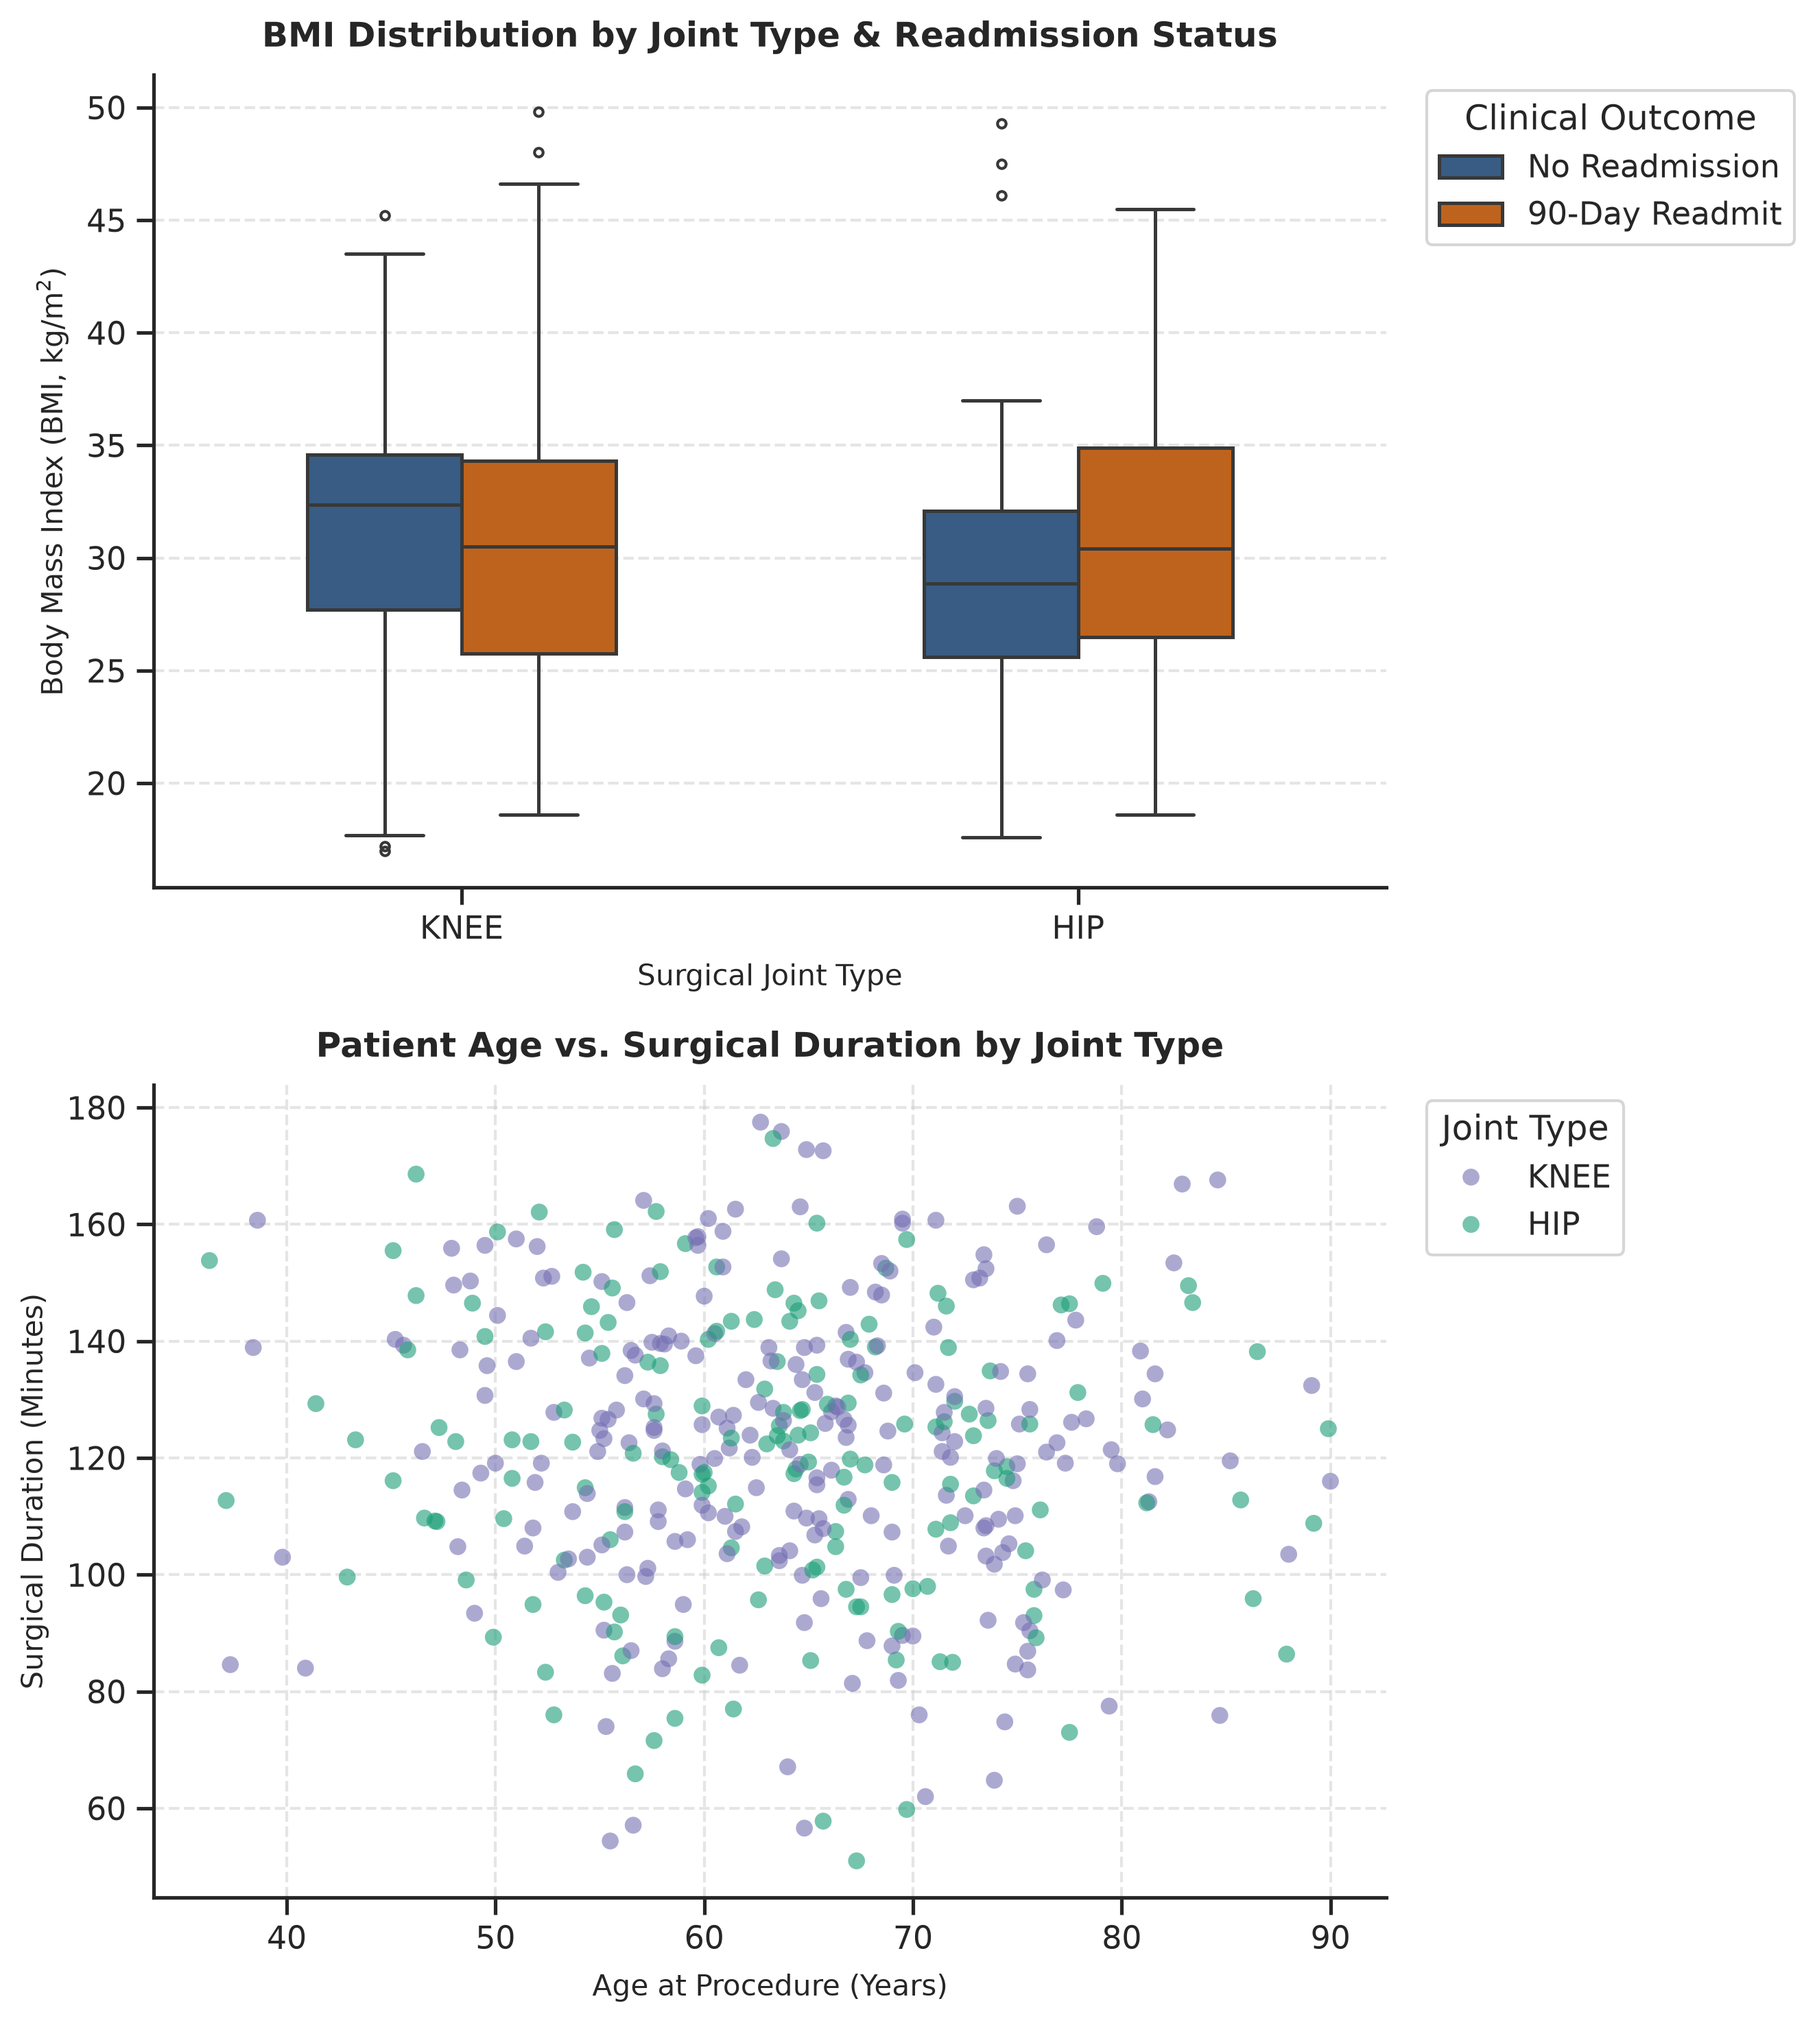
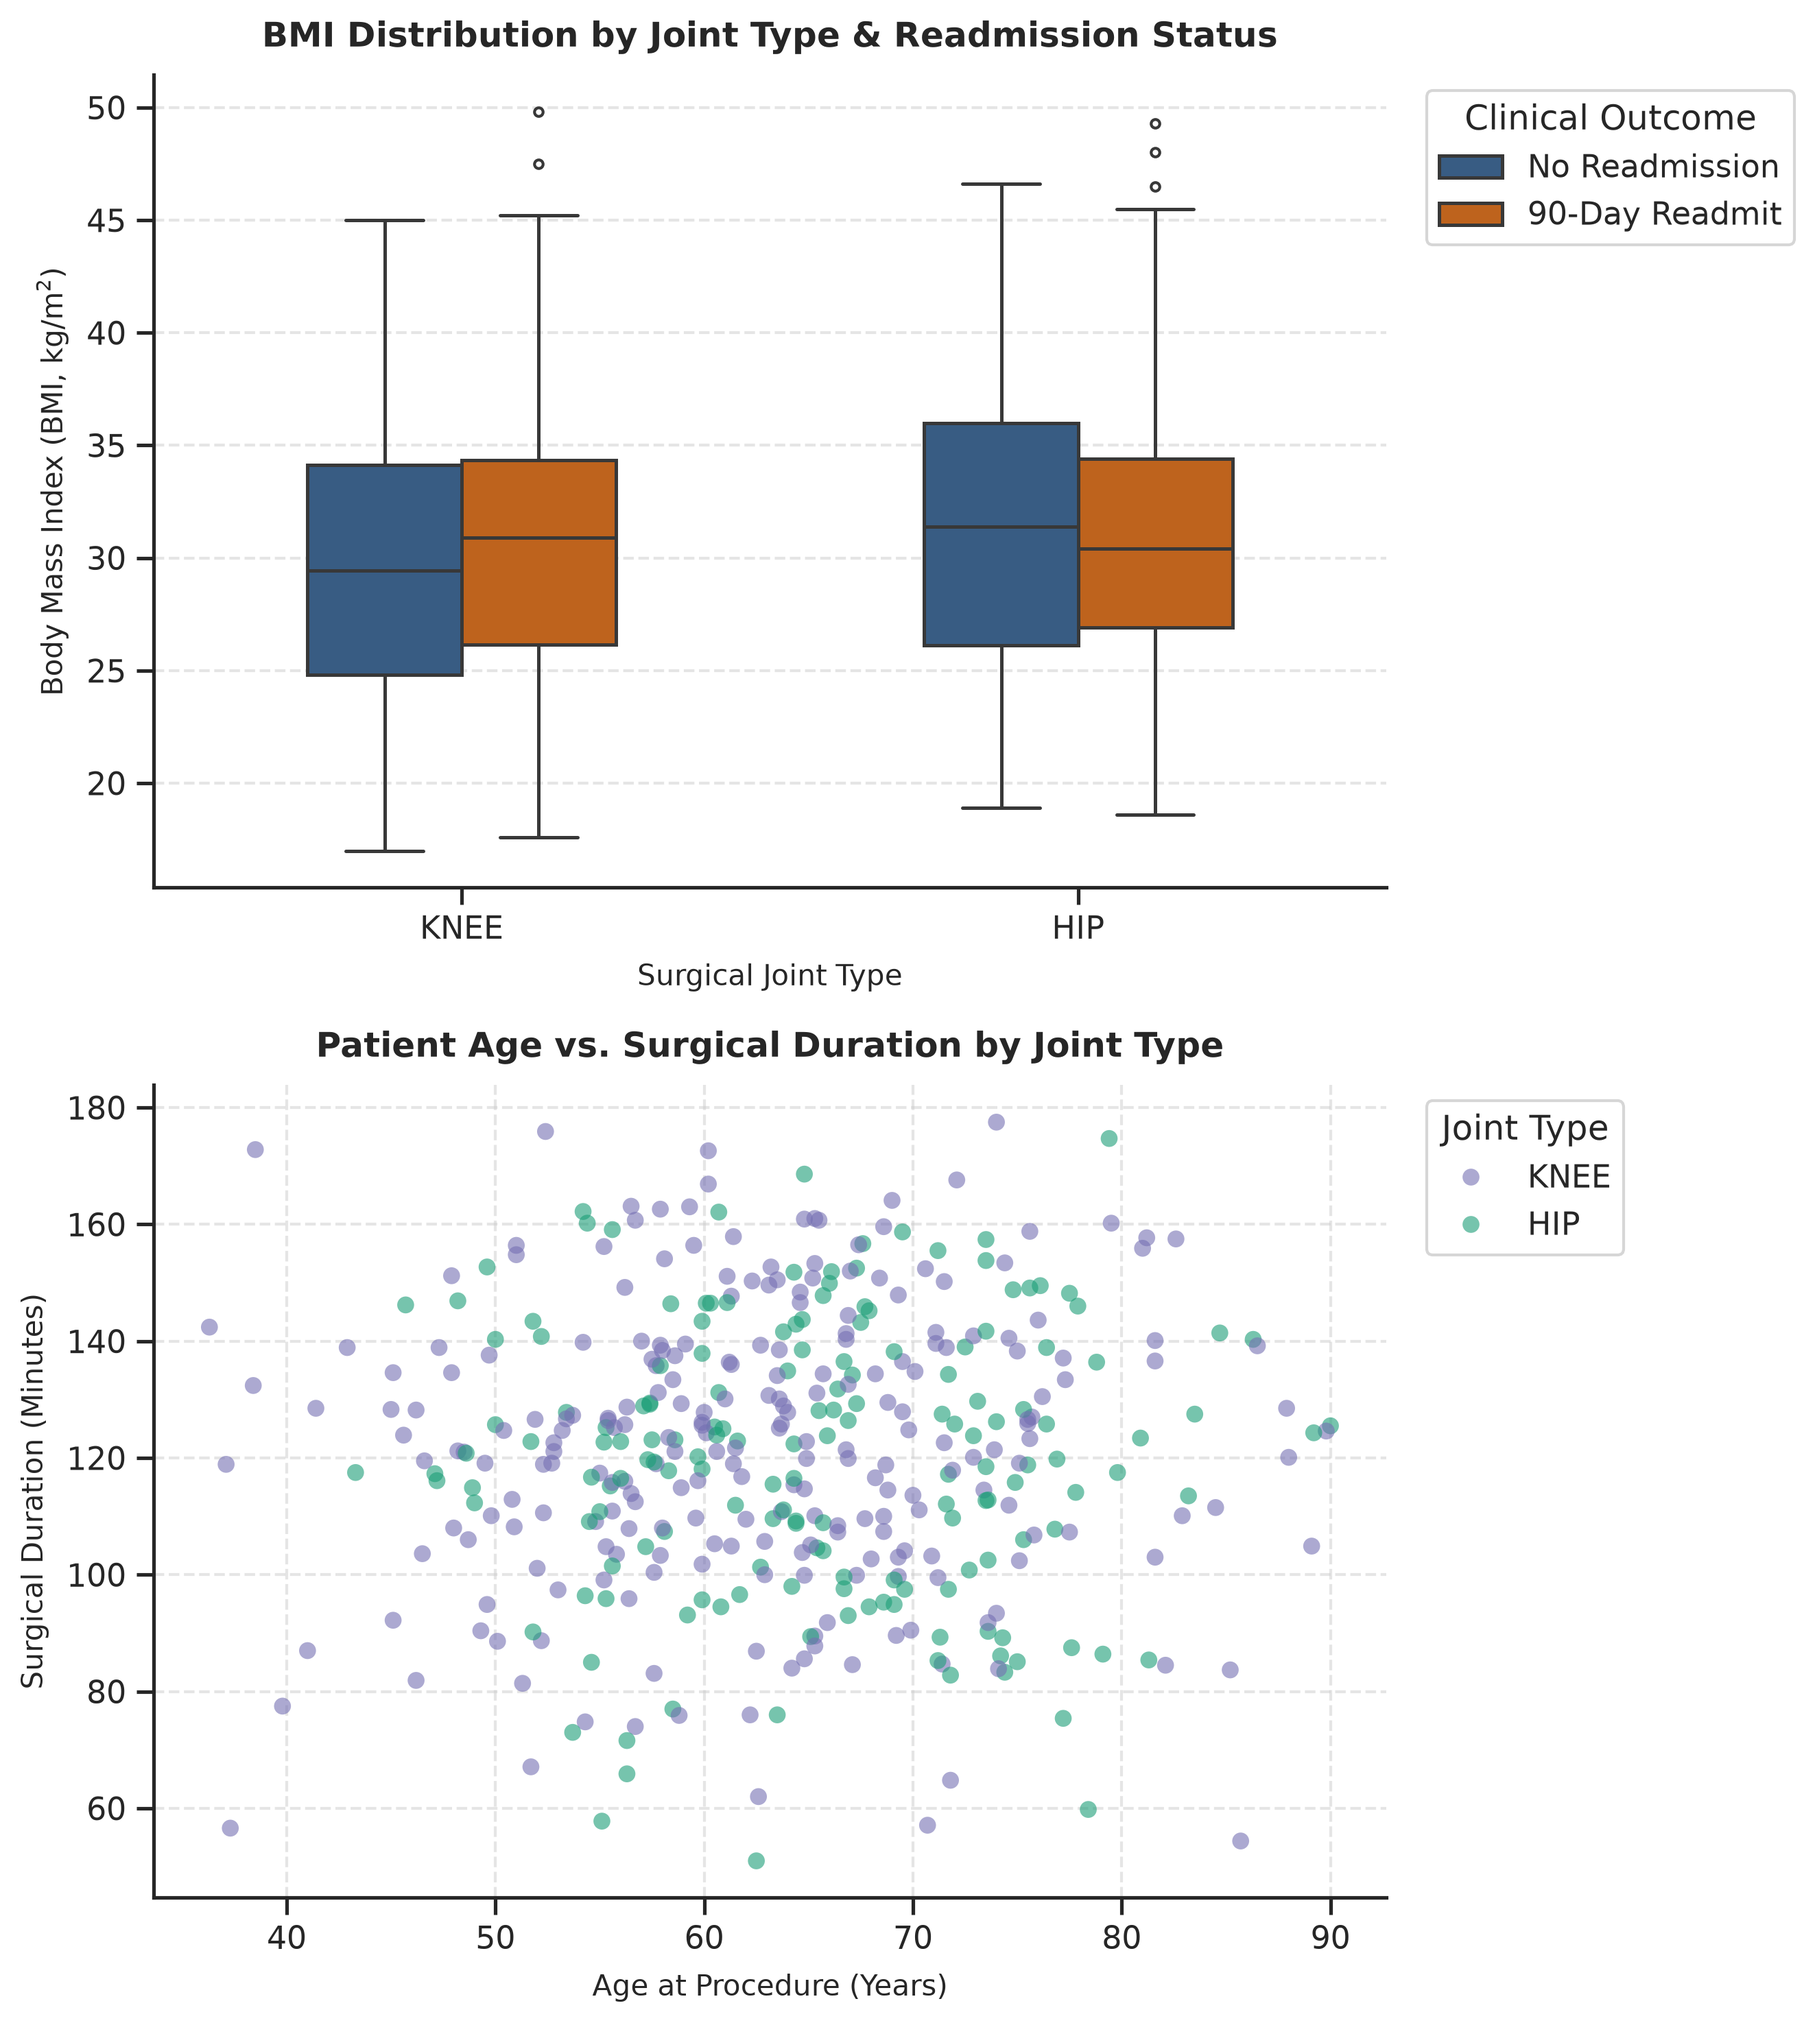
chore: rerun reports

diff --git a/reports/clinical_data_summary.md b/reports/clinical_data_summary.md
@@ -2,11 +2,11 @@
 
 ## Demographic & Procedural Characteristics
 
-| Variable / Stratum | Hip (N = 171) | Knee (N = 251) | Total Cohort (N = 422) |
+| Variable | Hip (N = 171) | Knee (N = 251) | Total Cohort (N = 422) |
 | :--- | :---: | :---: | :---: |
 | **Cohort Distribution, N (%)** | 171 (40.5%) | 251 (59.5%) | 422 (100.0%) |
-| **Age at Procedure (Years), Mean ± SD** | 63.1 (±10.5) | 64.2 (±10.0) | -- |
-| **Body Mass Index (BMI), Median [IQR]** | 29.9 [26.5–34.4] | 30.9 [26.1–34.4] | -- |
+| **Age at Procedure (Years), Mean ± SD** | 65.4 (±9.5) | 62.7 (±10.6) | -- |
+| **Body Mass Index (BMI), Median [IQR]** | 30.6 [26.7–35.0] | 30.5 [25.7–34.3] | -- |
 | **Surgical Duration (Minutes), Mean ± SD** | 119.8 (±24.0) | 122.1 (±24.4) | -- |
 | **90-Day Readmission Rate, N (%)** | 137 (80.1%) | 195 (77.7%) | -- |
 
